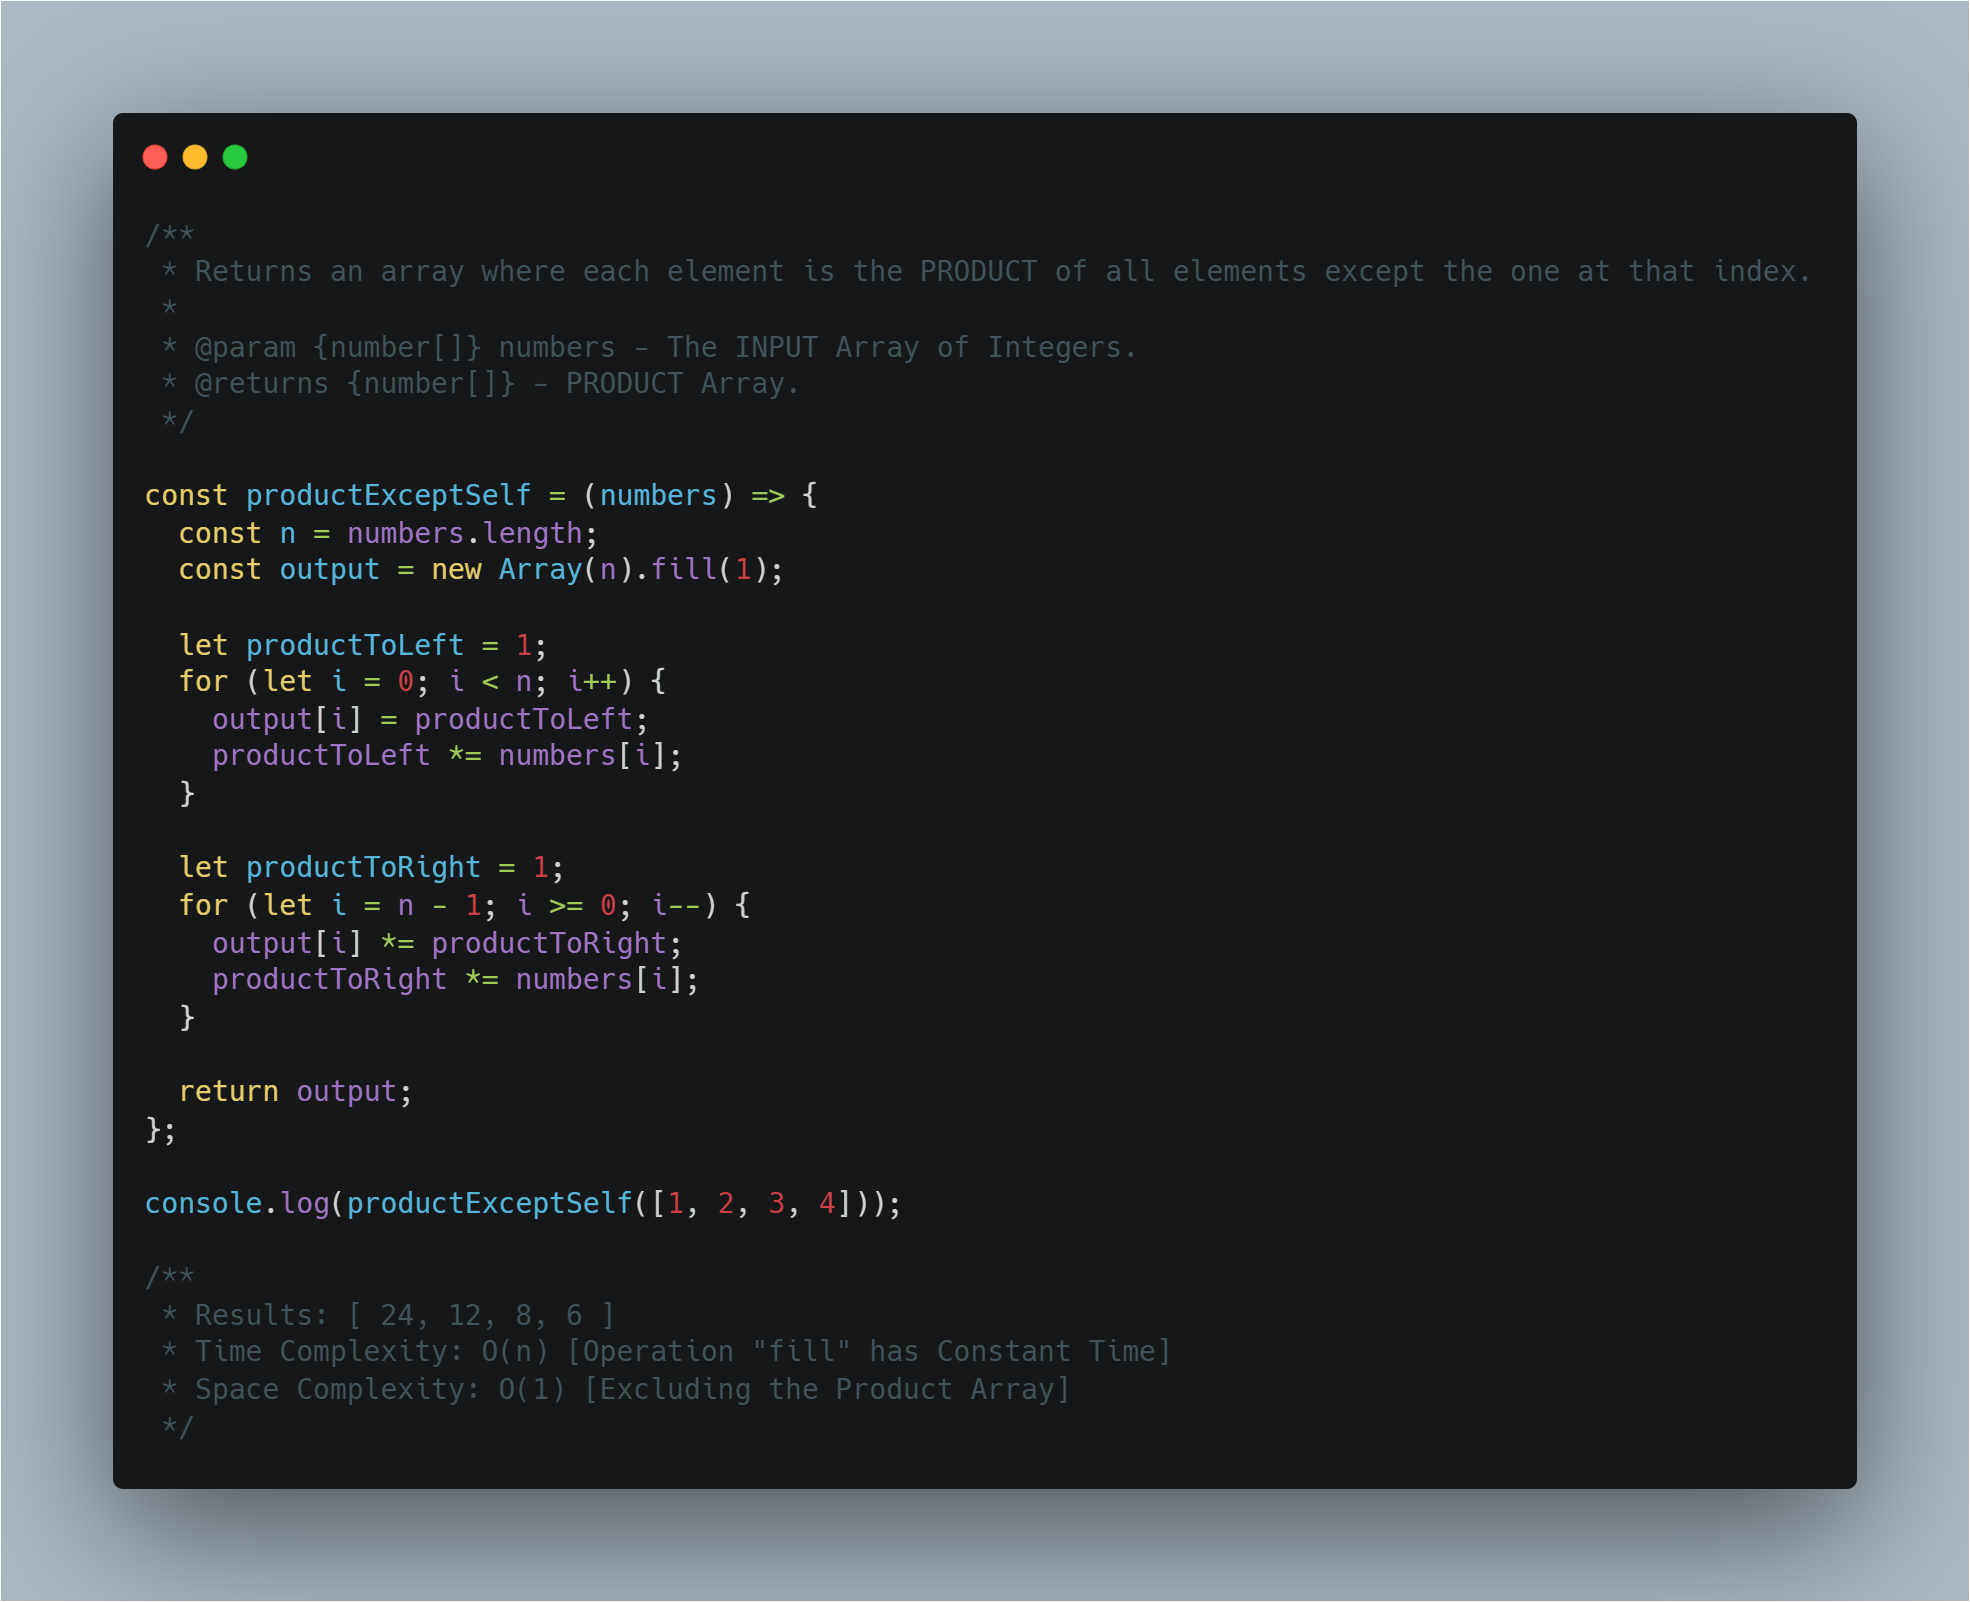
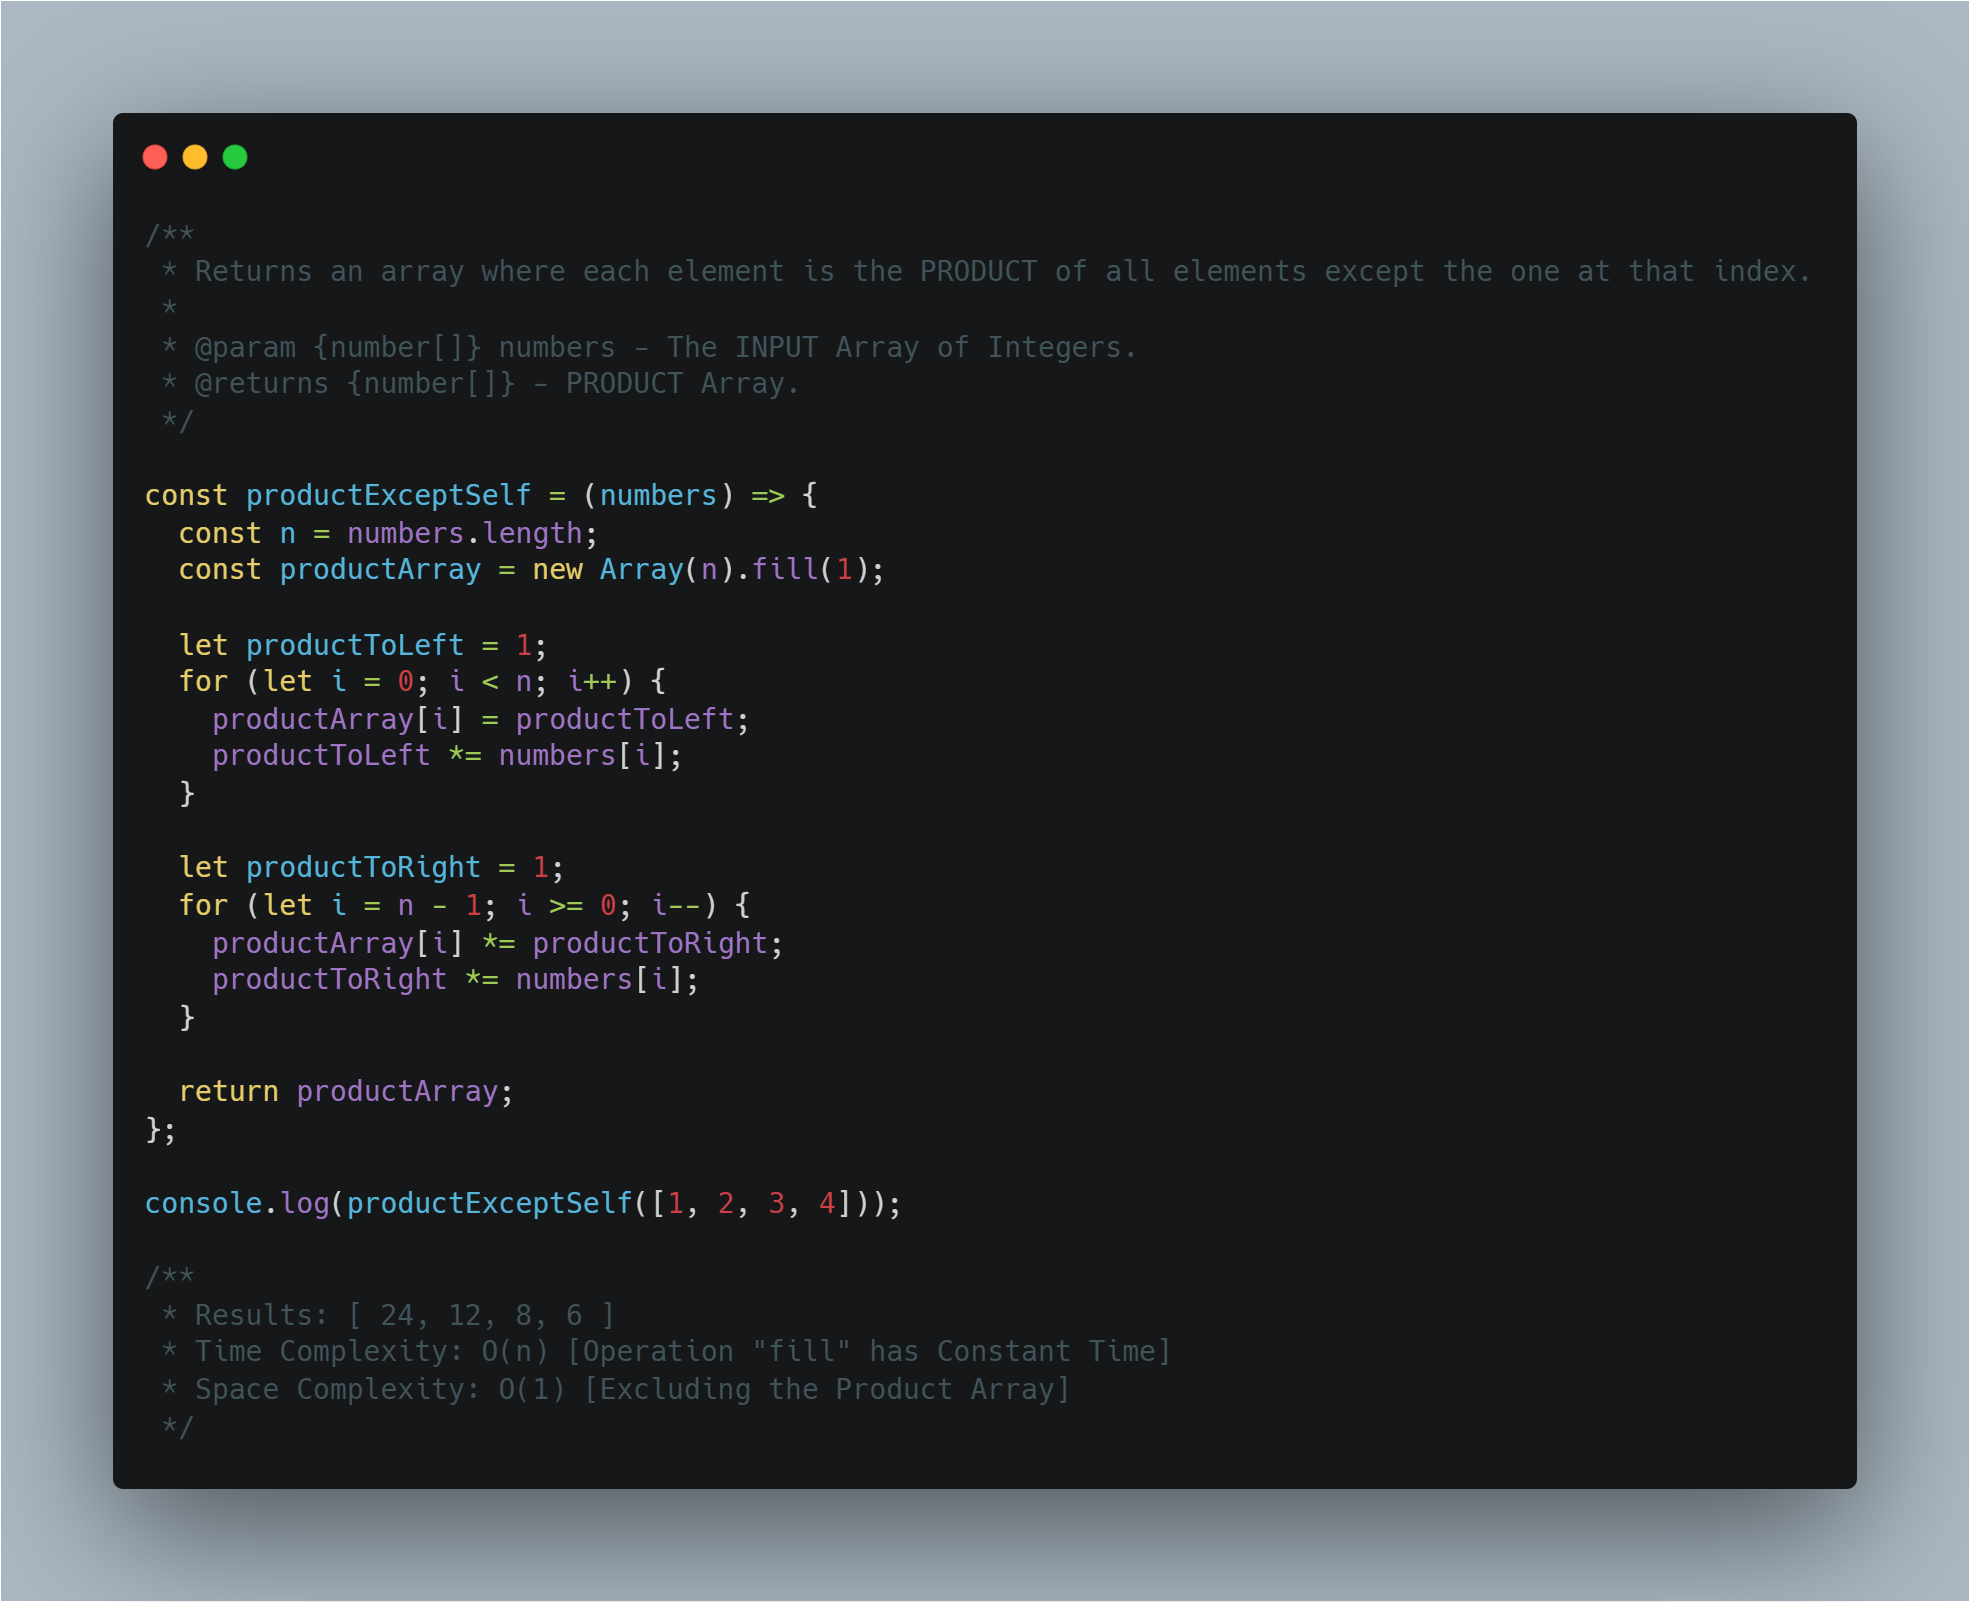
:memo: Fix - Leetcode: Product Except Self (Documentation)

diff --git a/leetcode/interview-questions/medium/array/product-except-self/product-except-self.js b/leetcode/interview-questions/medium/array/product-except-self/product-except-self.js
@@ -7,21 +7,21 @@
 
 const productExceptSelf = (numbers) => {
   const n = numbers.length;
-  const output = new Array(n).fill(1);
+  const productArray = new Array(n).fill(1);
 
   let productToLeft = 1;
   for (let i = 0; i < n; i++) {
-    output[i] = productToLeft;
+    productArray[i] = productToLeft;
     productToLeft *= numbers[i];
   }
 
   let productToRight = 1;
   for (let i = n - 1; i >= 0; i--) {
-    output[i] *= productToRight;
+    productArray[i] *= productToRight;
     productToRight *= numbers[i];
   }
 
-  return output;
+  return productArray;
 };
 
 console.log(productExceptSelf([1, 2, 3, 4]));

diff --git a/leetcode/the_blind_75-leetcode_challenge/product-except-self/product-except-self.js b/leetcode/the_blind_75-leetcode_challenge/product-except-self/product-except-self.js
@@ -7,21 +7,21 @@
 
 const productExceptSelf = (numbers) => {
   const n = numbers.length;
-  const output = new Array(n).fill(1);
+  const productArray = new Array(n).fill(1);
 
   let productToLeft = 1;
   for (let i = 0; i < n; i++) {
-    output[i] = productToLeft;
+    productArray[i] = productToLeft;
     productToLeft *= numbers[i];
   }
 
   let productToRight = 1;
   for (let i = n - 1; i >= 0; i--) {
-    output[i] *= productToRight;
+    productArray[i] *= productToRight;
     productToRight *= numbers[i];
   }
 
-  return output;
+  return productArray;
 };
 
 console.log(productExceptSelf([1, 2, 3, 4]));
